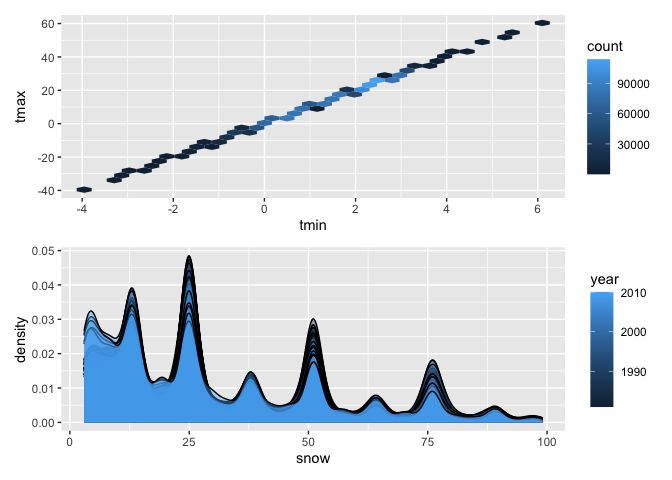
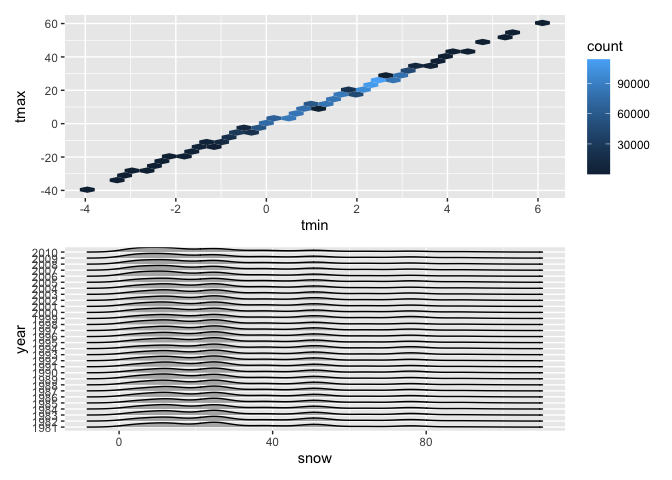
updated to use geom_density_ridge for the last questions.

diff --git a/p8105_hw3_fz2328.md b/p8105_hw3_fz2328.md
@@ -141,10 +141,19 @@ A = ny_noaa %>%
  
 B = ny_noaa %>%
   filter(snow > 0 & snow < 100) %>% 
-  ggplot(aes(x = snow, fill = year, group = year)) + 
-  geom_density(alpha = .4, adjust = .5) 
+  mutate(year = as.character(year)) %>% 
+  ggplot(aes(x = snow, y = year)) +
+  geom_density_ridges(scale = .85)
 
-A/B
+A/B 
 ```
 
 ![](p8105_hw3_fz2328_files/figure-gfm/unnamed-chunk-7-1.png)<!-- -->
+
+``` r
+  knitr::opts_chunk$set(
+  fig.width = 6,
+  fig.asp = .6,
+  out.width = "90%"
+)
+```
